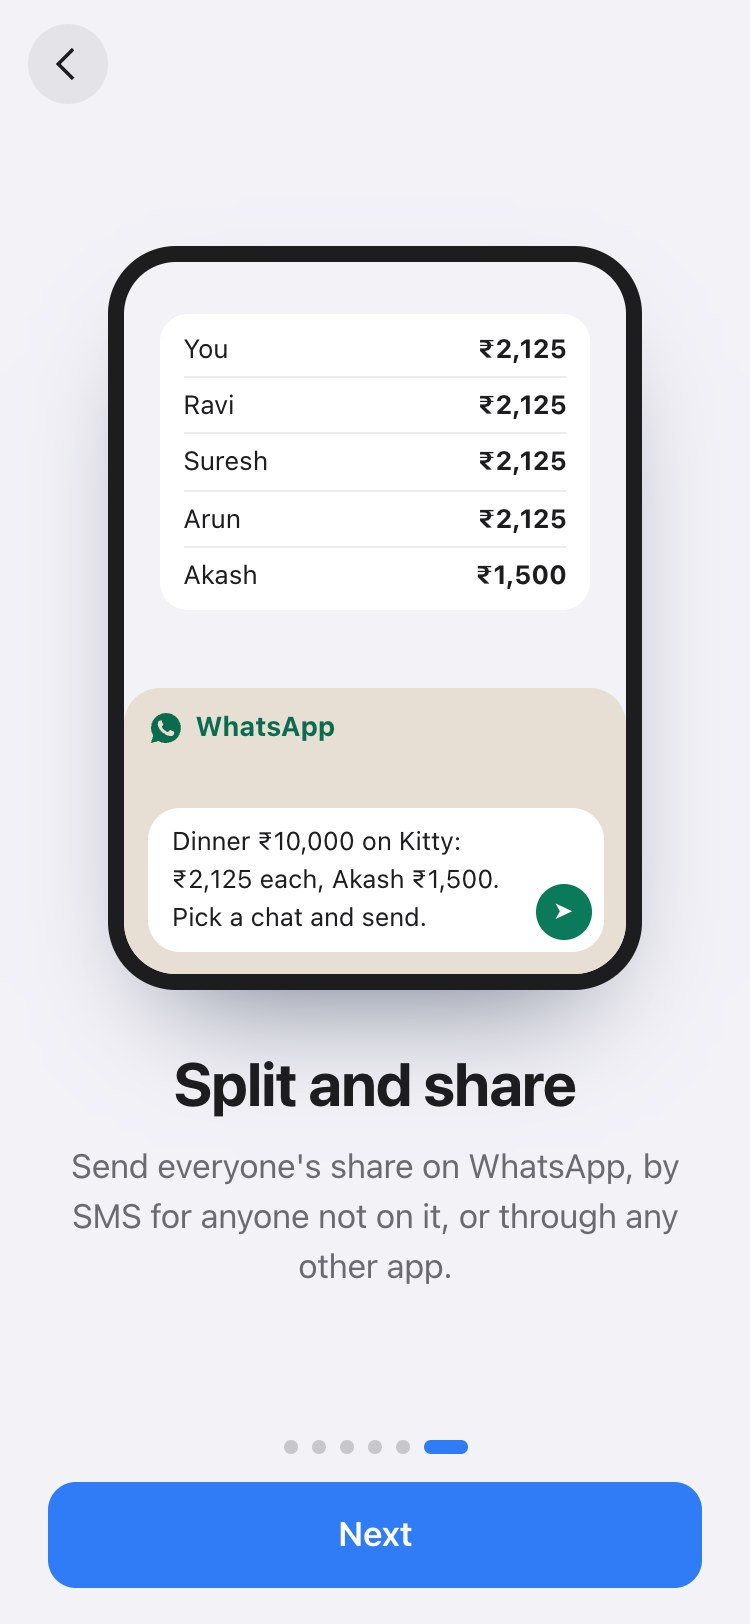
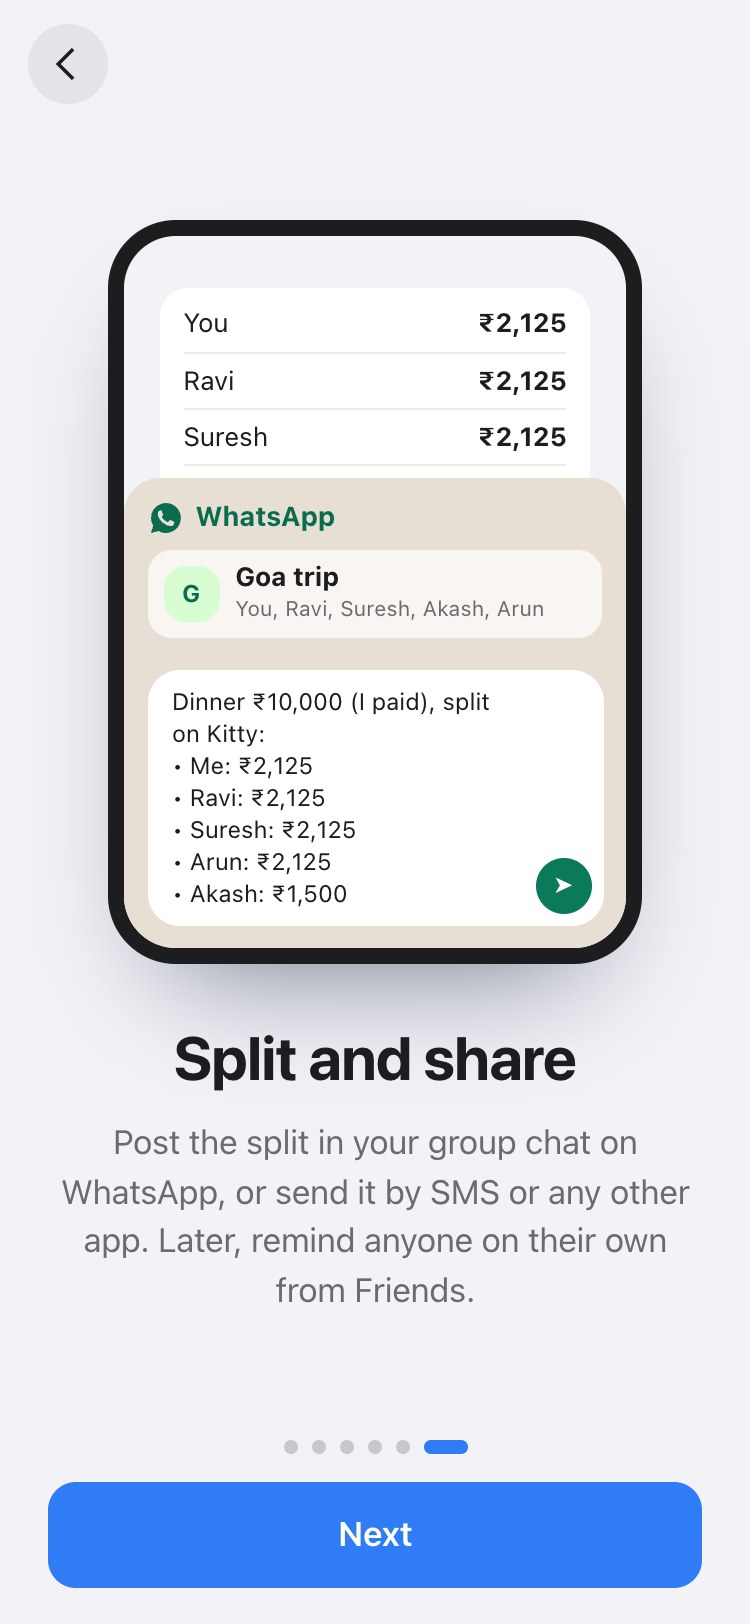
Tour step 6: the split goes to the group chat, in the app's real message format

Changed region(s): [[0.092, 0.1232, 0.92, 0.8005]]

diff --git a/public/index.html b/public/index.html
@@ -13,7 +13,7 @@
 <meta name="mobile-web-app-capable" content="yes">
 <meta name="apple-mobile-web-app-title" content="Kitty">
 <meta name="apple-mobile-web-app-status-bar-style" content="default">
-<link rel="stylesheet" href="/static/style.css?v=25">
+<link rel="stylesheet" href="/static/style.css?v=26">
 </head>
 <body>
 <div class="app">
@@ -331,7 +331,11 @@
             <b>Send to</b>
             <div class="sendOpts"><span class="o wa"><svg viewBox="0 0 24 24" aria-hidden="true"><path d="M12 2a10 10 0 0 0-8.6 15.1L2 22l5-1.3A10 10 0 1 0 12 2Zm5.4 14.1c-.2.6-1.3 1.2-1.8 1.2-.5.1-1 .2-3.3-.7-2.8-1.1-4.5-3.9-4.7-4.1-.1-.2-1.1-1.5-1.1-2.9s.7-2 1-2.3c.2-.3.5-.3.7-.3h.5c.2 0 .4 0 .6.5l.8 2c.1.2.1.4 0 .5l-.3.5-.4.4c-.1.1-.3.3-.1.6.2.3.7 1.1 1.5 1.8 1 .9 1.9 1.2 2.2 1.3.3.1.4.1.6-.1l.8-1c.2-.3.4-.2.6-.1l1.9.9c.3.1.5.2.5.3.1.2.1.6-.1 1.2Z"/></svg>WhatsApp</span><span class="o sms"><svg viewBox="0 0 24 24" aria-hidden="true"><path d="M4 3h16a2 2 0 0 1 2 2v11a2 2 0 0 1-2 2H8l-4 4V5a2 2 0 0 1 2-2Zm3 6v2h2V9H7Zm4 0v2h2V9h-2Zm4 0v2h2V9h-2Z"/></svg>SMS</span><span class="o other"><svg viewBox="0 0 24 24" aria-hidden="true"><path d="M18 16a3 3 0 0 0-2.4 1.2l-6.7-3.4a3 3 0 0 0 0-1.6l6.7-3.4A3 3 0 1 0 15 7c0 .3 0 .5.1.8L8.4 11.2a3 3 0 1 0 0 3.6l6.7 3.4-.1.8a3 3 0 1 0 3-3Z"/></svg>Other apps</span></div>
           </div>
-          <div class="waChat"><span class="waTop"><svg viewBox="0 0 24 24" aria-hidden="true"><path d="M12 2a10 10 0 0 0-8.6 15.1L2 22l5-1.3A10 10 0 1 0 12 2Zm5.4 14.1c-.2.6-1.3 1.2-1.8 1.2-.5.1-1 .2-3.3-.7-2.8-1.1-4.5-3.9-4.7-4.1-.1-.2-1.1-1.5-1.1-2.9s.7-2 1-2.3c.2-.3.5-.3.7-.3h.5c.2 0 .4 0 .6.5l.8 2c.1.2.1.4 0 .5l-.3.5-.4.4c-.1.1-.3.3-.1.6.2.3.7 1.1 1.5 1.8 1 .9 1.9 1.2 2.2 1.3.3.1.4.1.6-.1l.8-1c.2-.3.4-.2.6-.1l1.9.9c.3.1.5.2.5.3.1.2.1.6-.1 1.2Z"/></svg>WhatsApp</span><p class="waMsg">Dinner ₹10,000 on Kitty: ₹2,125 each, Akash ₹1,500. Pick a chat and send.</p></div>
+          <div class="waChat">
+            <span class="waTop"><svg viewBox="0 0 24 24" aria-hidden="true"><path d="M12 2a10 10 0 0 0-8.6 15.1L2 22l5-1.3A10 10 0 1 0 12 2Zm5.4 14.1c-.2.6-1.3 1.2-1.8 1.2-.5.1-1 .2-3.3-.7-2.8-1.1-4.5-3.9-4.7-4.1-.1-.2-1.1-1.5-1.1-2.9s.7-2 1-2.3c.2-.3.5-.3.7-.3h.5c.2 0 .4 0 .6.5l.8 2c.1.2.1.4 0 .5l-.3.5-.4.4c-.1.1-.3.3-.1.6.2.3.7 1.1 1.5 1.8 1 .9 1.9 1.2 2.2 1.3.3.1.4.1.6-.1l.8-1c.2-.3.4-.2.6-.1l1.9.9c.3.1.5.2.5.3.1.2.1.6-.1 1.2Z"/></svg>WhatsApp</span>
+            <div class="waGroup"><span class="avatar cat">G</span><span><b>Goa trip</b><small>You, Ravi, Suresh, Akash, Arun</small></span></div>
+            <p class="waMsg">Dinner ₹10,000 (I paid), split on Kitty:<br>• Me: ₹2,125<br>• Ravi: ₹2,125<br>• Suresh: ₹2,125<br>• Arun: ₹2,125<br>• Akash: ₹1,500</p>
+          </div>
         </div>
       </div>
       <h2 class="slideTitle" id="howTitle"></h2>
@@ -407,6 +411,6 @@
   <div id="toast" class="toast" role="status" hidden></div>
 </div>
 <div id="print" class="print" aria-hidden="true"></div>
-<script src="/static/app.js?v=26"></script>
+<script src="/static/app.js?v=27"></script>
 </body>
 </html>

diff --git a/public/static/app.js b/public/static/app.js
@@ -1050,7 +1050,7 @@ const HOW = [
   { title: "Kitty finds the people", text: "The names you said show up, ready to check. Tap Next when it looks right." },
   { title: "Check it, then save", text: "Akash skipped drinks, so he pays only for food. Fix anything with a tap, then save." },
   { title: "Groups keep the tally", text: "Make a group for a trip or your flat. Every expense adds up, and Kitty works out who pays whom in the fewest payments." },
-  { title: "Split and share", text: "Send everyone's share on WhatsApp, by SMS for anyone not on it, or through any other app." },
+  { title: "Split and share", text: "Post the split in your group chat on WhatsApp, or send it by SMS or any other app. Later, remind anyone on their own from Friends." },
 ];
 const SAY = [
   { lang: "Tanglish", text: "Petrol-ku naan 1,200 kuduthen, Arun Ravi kooda split pannu" },

diff --git a/public/static/style.css b/public/static/style.css
@@ -657,3 +657,11 @@ textarea.field{resize:none;line-height:1.4;font:inherit}
 .play .s5 .waChat{animation:slideUp .5s 3.6s var(--ease) forwards}
 .play .s5 .waMsg{animation:pop .4s 4.3s var(--ease) both}
 .sendOpts .o{text-align:center;white-space:nowrap;font-size:.7rem}
+
+/* How it works 6: the split goes to the group chat, in the app's real message format */
+.s5 .waChat{height:66%;gap:6px;padding:10px 12px 12px}
+.waGroup{display:flex;align-items:center;gap:8px;background:rgba(255,255,255,.7);border-radius:12px;padding:6px 8px;text-align:left}
+.waGroup .avatar{width:28px;height:28px;font-size:.75rem;background:#D9FDD3;color:#0B6B4F}
+.waGroup b{display:block;font-size:.82rem;line-height:1.2}
+.waGroup small{display:block;color:var(--muted);font-size:.66rem}
+.s5 .waMsg{margin-top:auto;font-size:.74rem;line-height:1.35;padding:8px 44px 8px 12px}

diff --git a/public/sw.js b/public/sw.js
@@ -1,5 +1,5 @@
 // Keeps the app shell available so it opens like an app. API calls always go to the network.
-const CACHE = "kitty-v29";
+const CACHE = "kitty-v30";
 const SHELL = ["/", "/static/style.css?v=13", "/static/app.js?v=14", "/manifest.webmanifest", "/icons/icon-192.png"];
 self.addEventListener("install", (e) => { e.waitUntil(caches.open(CACHE).then((c) => c.addAll(SHELL))); self.skipWaiting(); });
 self.addEventListener("activate", (e) => {

diff --git a/test-outputs/README.md b/test-outputs/README.md
@@ -23,7 +23,7 @@ Every tour screen after Welcome has a back arrow at the top left, and you can sw
 | `06-how-5-group-make.jpg` | 5 Groups keep the tally, first half: making "Goa trip" |
 | `06-how-5-group-tally.jpg` | 5, second half on the same screen: dinner, hotel and cab, settled in 4 payments |
 | `07-how-6-share-options.jpg` | 6 Split and share: the shares, then a Send to sheet with WhatsApp, SMS and Other apps |
-| `07-how-6-share.jpg` | 6, end: WhatsApp is tapped and opens with the message ready |
+| `07-how-6-share.jpg` | 6, end: WhatsApp opens on the Goa trip group chat with the split in the app's real message format |
 | `08-setup.jpg` | Let's set you up: name and UPI ID. An empty name is blocked, and names are saved with capitals |
 
 ### The app
